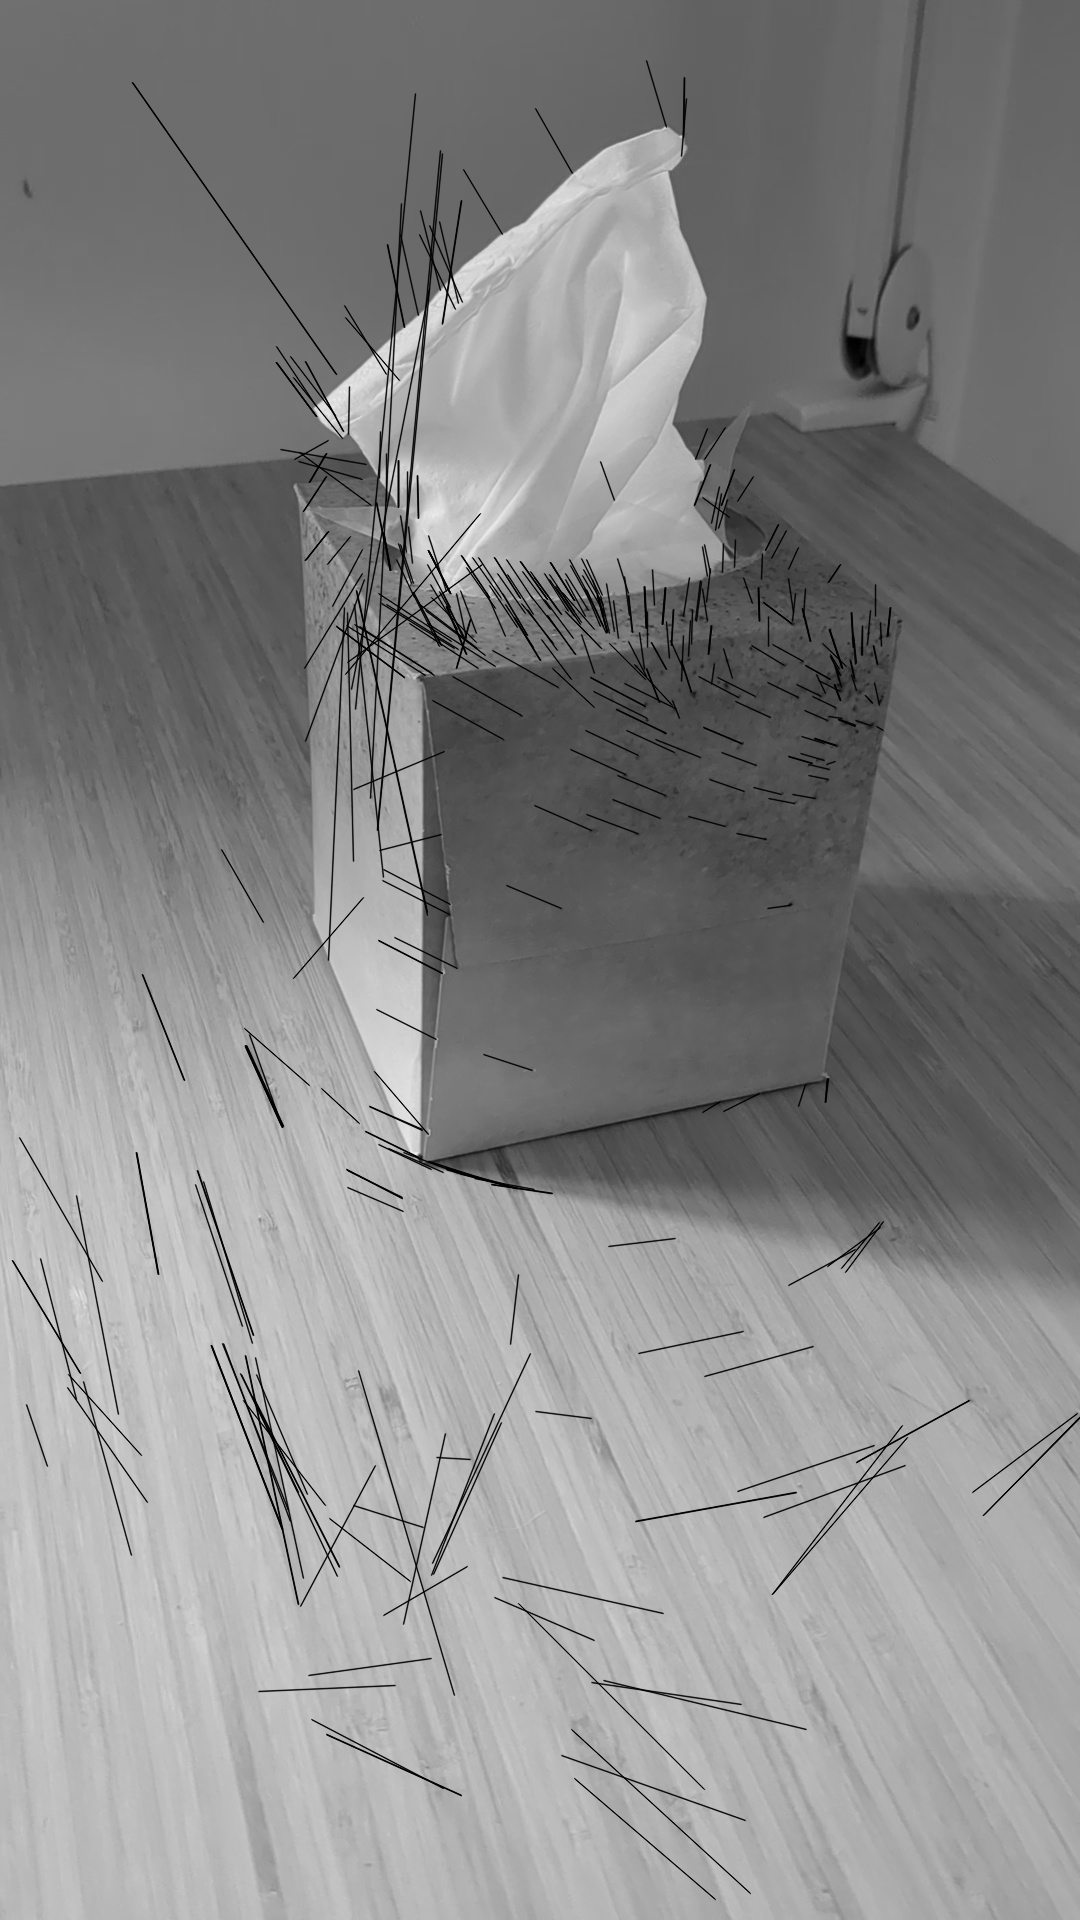
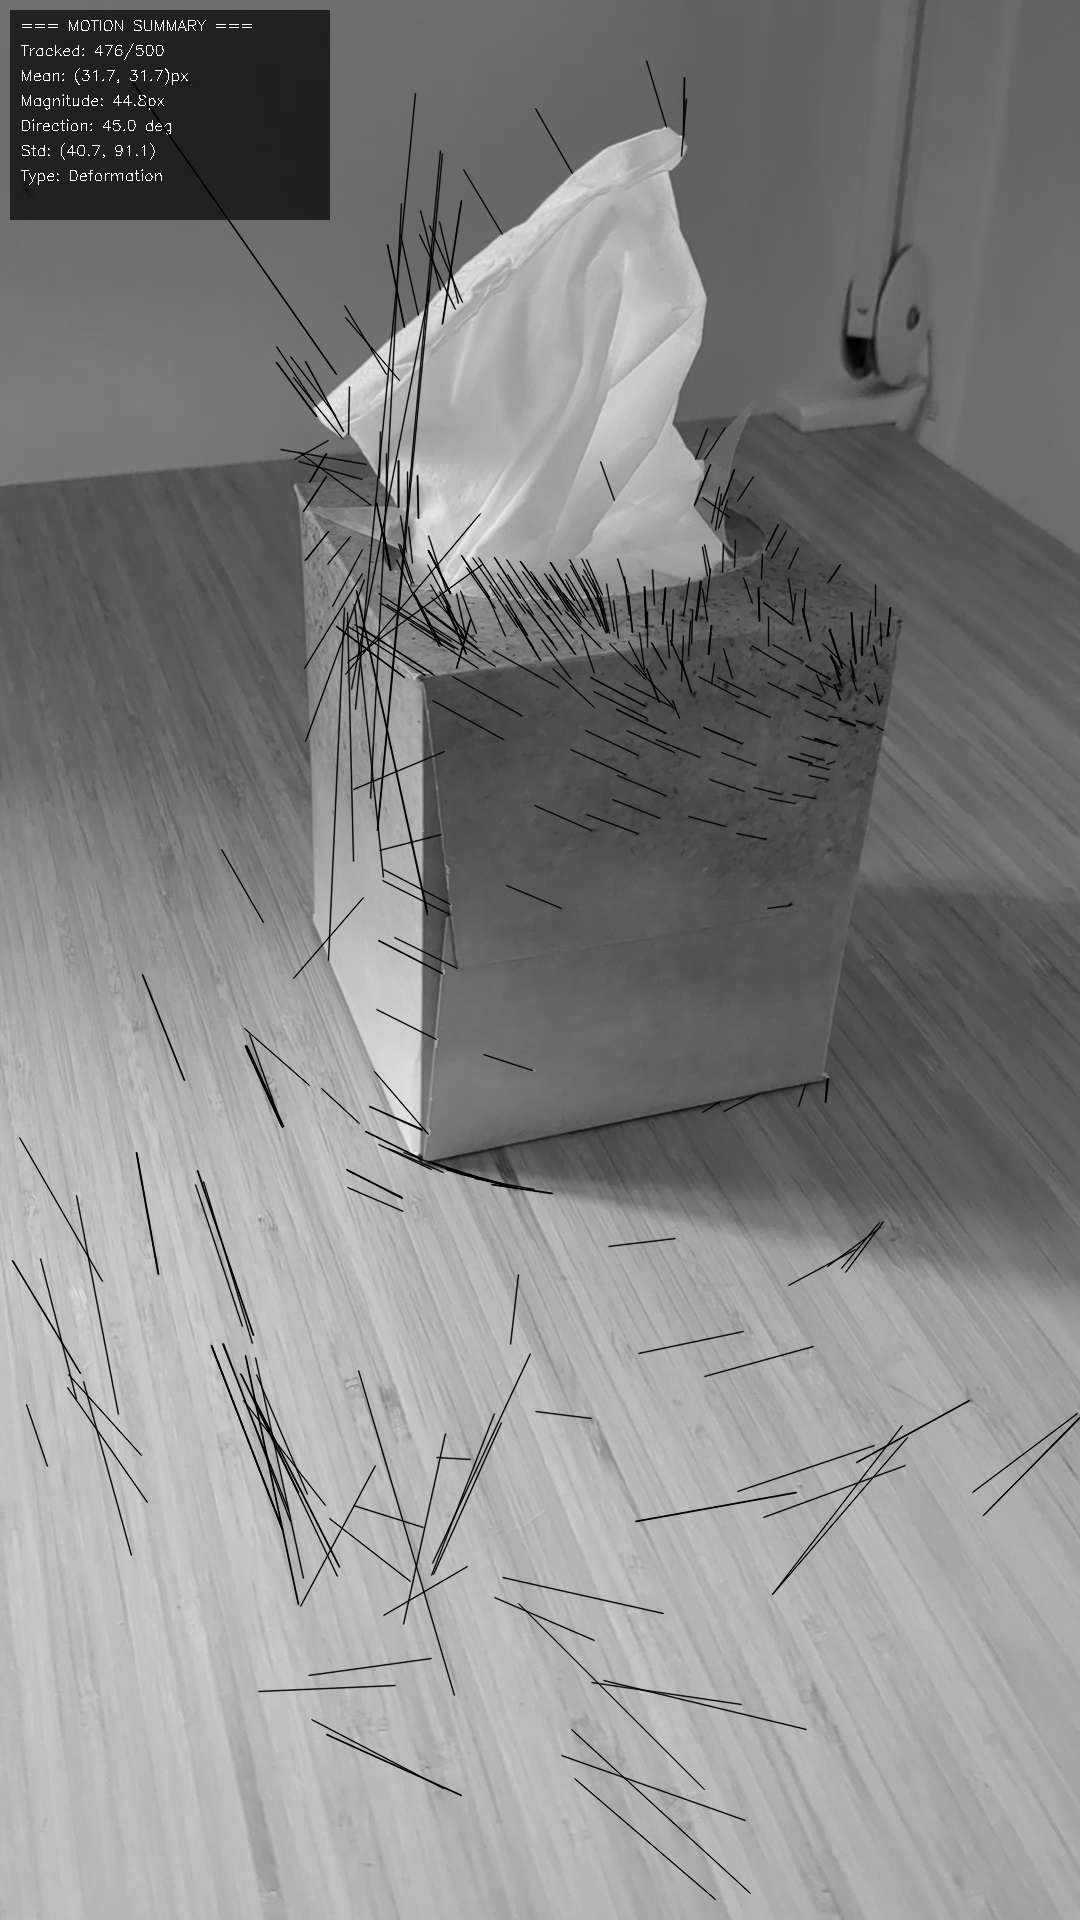
LK explanation

Changed region(s): [[0.0, 0.0, 0.3056, 0.125]]

diff --git a/opencv_hello/optical_flow/lucas_kanade_main.cc b/opencv_hello/optical_flow/lucas_kanade_main.cc
@@ -1,6 +1,8 @@
+#include <numeric>
 #include "absl/flags/flag.h"
 #include "absl/flags/parse.h"
 #include "absl/status/status.h"
+#include "absl/strings/str_format.h"
 #include "gflags/gflags.h"
 #include "glog/logging.h"
 #include "opencv2/opencv.hpp"
@@ -12,6 +14,124 @@ ABSL_FLAG(std::string, previous_image, "testdata/optical_flow/frame_0.jpg",
           "Previous video frame");
 ABSL_FLAG(std::string, next_image, "testdata/optical_flow/frame_27.jpg",
           "Current video frame");
+
+void DrawMotionSummary(cv::Mat& image, const std::vector<cv::Point2f>& prev_pts,
+                       const std::vector<cv::Point2f>& next_pts,
+                       const std::vector<uchar>& status) {
+  if (prev_pts.empty() || next_pts.empty()) {
+    return;
+  }
+
+  std::vector<float> dx_values;
+  std::vector<float> dy_values;
+  std::vector<float> magnitudes;
+
+  // Collect motion vectors for successfully tracked points
+  for (size_t i = 0;
+       i < prev_pts.size() && i < next_pts.size() && i < status.size(); ++i) {
+    if (status[i]) {  // Only use successfully tracked points
+      float dx = next_pts[i].x - prev_pts[i].x;
+      float dy = next_pts[i].y - prev_pts[i].y;
+      float magnitude = sqrt(dx * dx + dy * dy);
+
+      dx_values.push_back(dx);
+      dy_values.push_back(dy);
+      magnitudes.push_back(magnitude);
+    }
+  }
+
+  if (dx_values.empty()) {
+    return;
+  }
+
+  // Calculate mean motion
+  float mean_dx = std::accumulate(dx_values.begin(), dx_values.end(), 0.0f) /
+                  dx_values.size();
+  float mean_dy = std::accumulate(dy_values.begin(), dy_values.end(), 0.0f) /
+                  dy_values.size();
+  float mean_magnitude = sqrt(mean_dx * mean_dx + mean_dy * mean_dy);
+  float mean_direction =
+      std::atan2(mean_dy, mean_dx) * 180.0f / CV_PI;  // Convert to degrees
+
+  // Calculate standard deviation for motion consistency
+  float sum_sq_dx = 0;
+  float sum_sq_dy = 0;
+  for (size_t i = 0; i < dx_values.size(); ++i) {
+    sum_sq_dx += (dx_values[i] - mean_dx) * (dx_values[i] - mean_dx);
+    sum_sq_dy += (dy_values[i] - mean_dy) * (dy_values[i] - mean_dy);
+  }
+  float std_dx = sqrt(sum_sq_dx / dx_values.size());
+  float std_dy = sqrt(sum_sq_dy / dy_values.size());
+
+  // Determine motion type
+  std::string motion_type;
+  if (mean_magnitude < 1.0f) {
+    // Very low motion magnitude (< 1.0 pixels)
+    motion_type = "Minimal/Static";
+  } else if (std_dx < 2.0f && std_dy < 2.0f) {
+    // Low standard deviation in flow components, indicating uniform motion
+    // (translation, rotation, or scaling)
+    motion_type = "Rigid Body";
+  } else {
+    // High variation in flow field, suggesting non-rigid or complex motion
+    motion_type = "Deformation";
+  }
+
+  // Create semi-transparent overlay in top-left corner
+  int text_height = 25;
+  int text_margin = 10;
+  int overlay_width = 320;
+  int overlay_height = 8 * text_height + text_margin;
+
+  // Ensure overlay fits within image
+  overlay_width = std::min(overlay_width, image.cols - 20);
+  overlay_height = std::min(overlay_height, image.rows - 20);
+
+  cv::Rect overlay_rect(10, 10, overlay_width, overlay_height);
+  cv::Mat roi = image(overlay_rect);
+  roi = roi * 0.3;  // Darken to 30% of original brightness
+
+  // Text properties
+  int font_face = cv::FONT_HERSHEY_SIMPLEX;
+  cv::Scalar text_color(255);  // White text for grayscale image
+  int line_spacing = text_height;
+
+  // Draw text lines
+  int y_pos = 30;
+  std::vector<std::string> text_lines;
+
+  text_lines.push_back("=== MOTION SUMMARY ===");
+  text_lines.push_back(
+      absl::StrFormat("Tracked: %i / %i", dx_values.size(), prev_pts.size()));
+
+  std::stringstream ss;
+  ss << std::fixed << std::setprecision(1);
+  text_lines.push_back(
+      absl::StrFormat("Mean: (%.1f, %.1f) px", mean_dx, mean_dy));
+
+  ss.str("");
+  ss.clear();
+  text_lines.push_back(absl::StrFormat("Magnitude: %.1f", mean_magnitude));
+
+  ss.str("");
+  ss.clear();
+  text_lines.push_back(absl::StrFormat("Direction: %.1f deg", mean_direction));
+
+  ss.str("");
+  ss.clear();
+  text_lines.push_back(
+      absl::StrFormat("Std dev: (%.1f, %.1f)", std_dx, std_dy));
+
+  text_lines.push_back("Type: " + motion_type);
+
+  for (const auto& line : text_lines) {
+    constexpr int thickness = 1;
+    constexpr double font_scale = 0.5;
+    cv::putText(image, line, cv::Point(20, y_pos), font_face, font_scale,
+                text_color, thickness);
+    y_pos += line_spacing;
+  }
+}
 
 absl::Status Run() {
   LOG(INFO) << "Running Lucas-Kanade test";
@@ -64,6 +184,9 @@ absl::Status Run() {
                        20,  // Maximum number of iterations
                        0.3  // Minimum change per iteration
                        ));
+
+  // Draw motion summary
+  DrawMotionSummary(img_c, corners_a, corners_b, features_found);
 
   // Now make some image of what we are looking at:
   // Note that if you want to track cornersB further, i.e.

diff --git a/opencv_hello/optical_flow/lk.md b/opencv_hello/optical_flow/lk.md
@@ -5,9 +5,9 @@ Originally was designed in dense optical flow, but can be used in sparse optical
 ## Example
 <img src="/testdata/optical_flow/frame_0.jpg" width="100" height="200"/>
 <img src="/testdata/optical_flow/frame_27.jpg" width="100" height="200"/>
-<img src="/optical_flow/images/lk-optical-flow.png" width="200" height="400"/>
+<img src="/optical_flow/images/lk-optical-flow.png" width="1080" height="1920"/>
 
 Assumptions:
 * Brightness consistency
-* Temporal persistance ("small movements")
+* Temporal persistence ("small movements")
 * Spatial coherence (neighbors stay neighbors)
